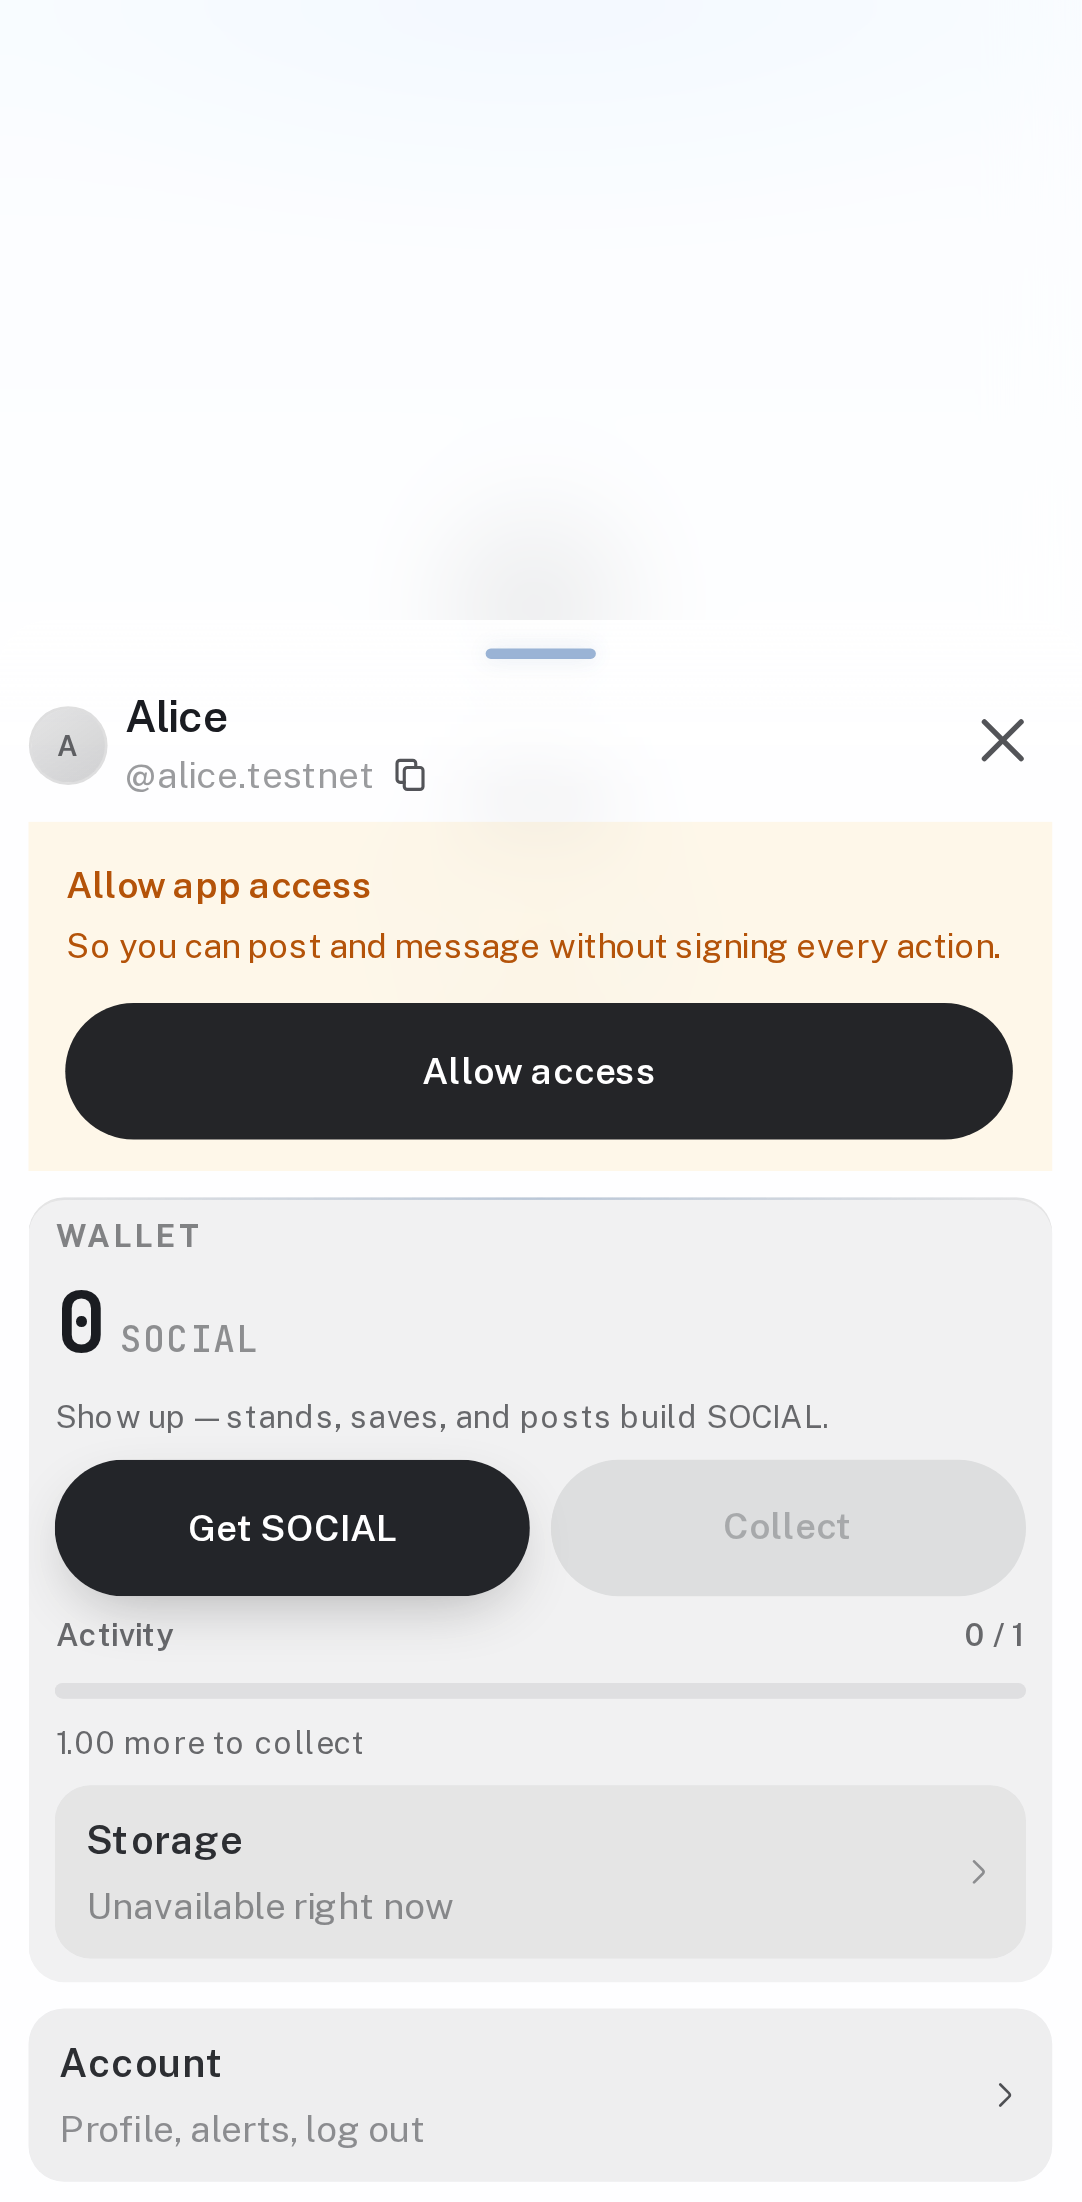
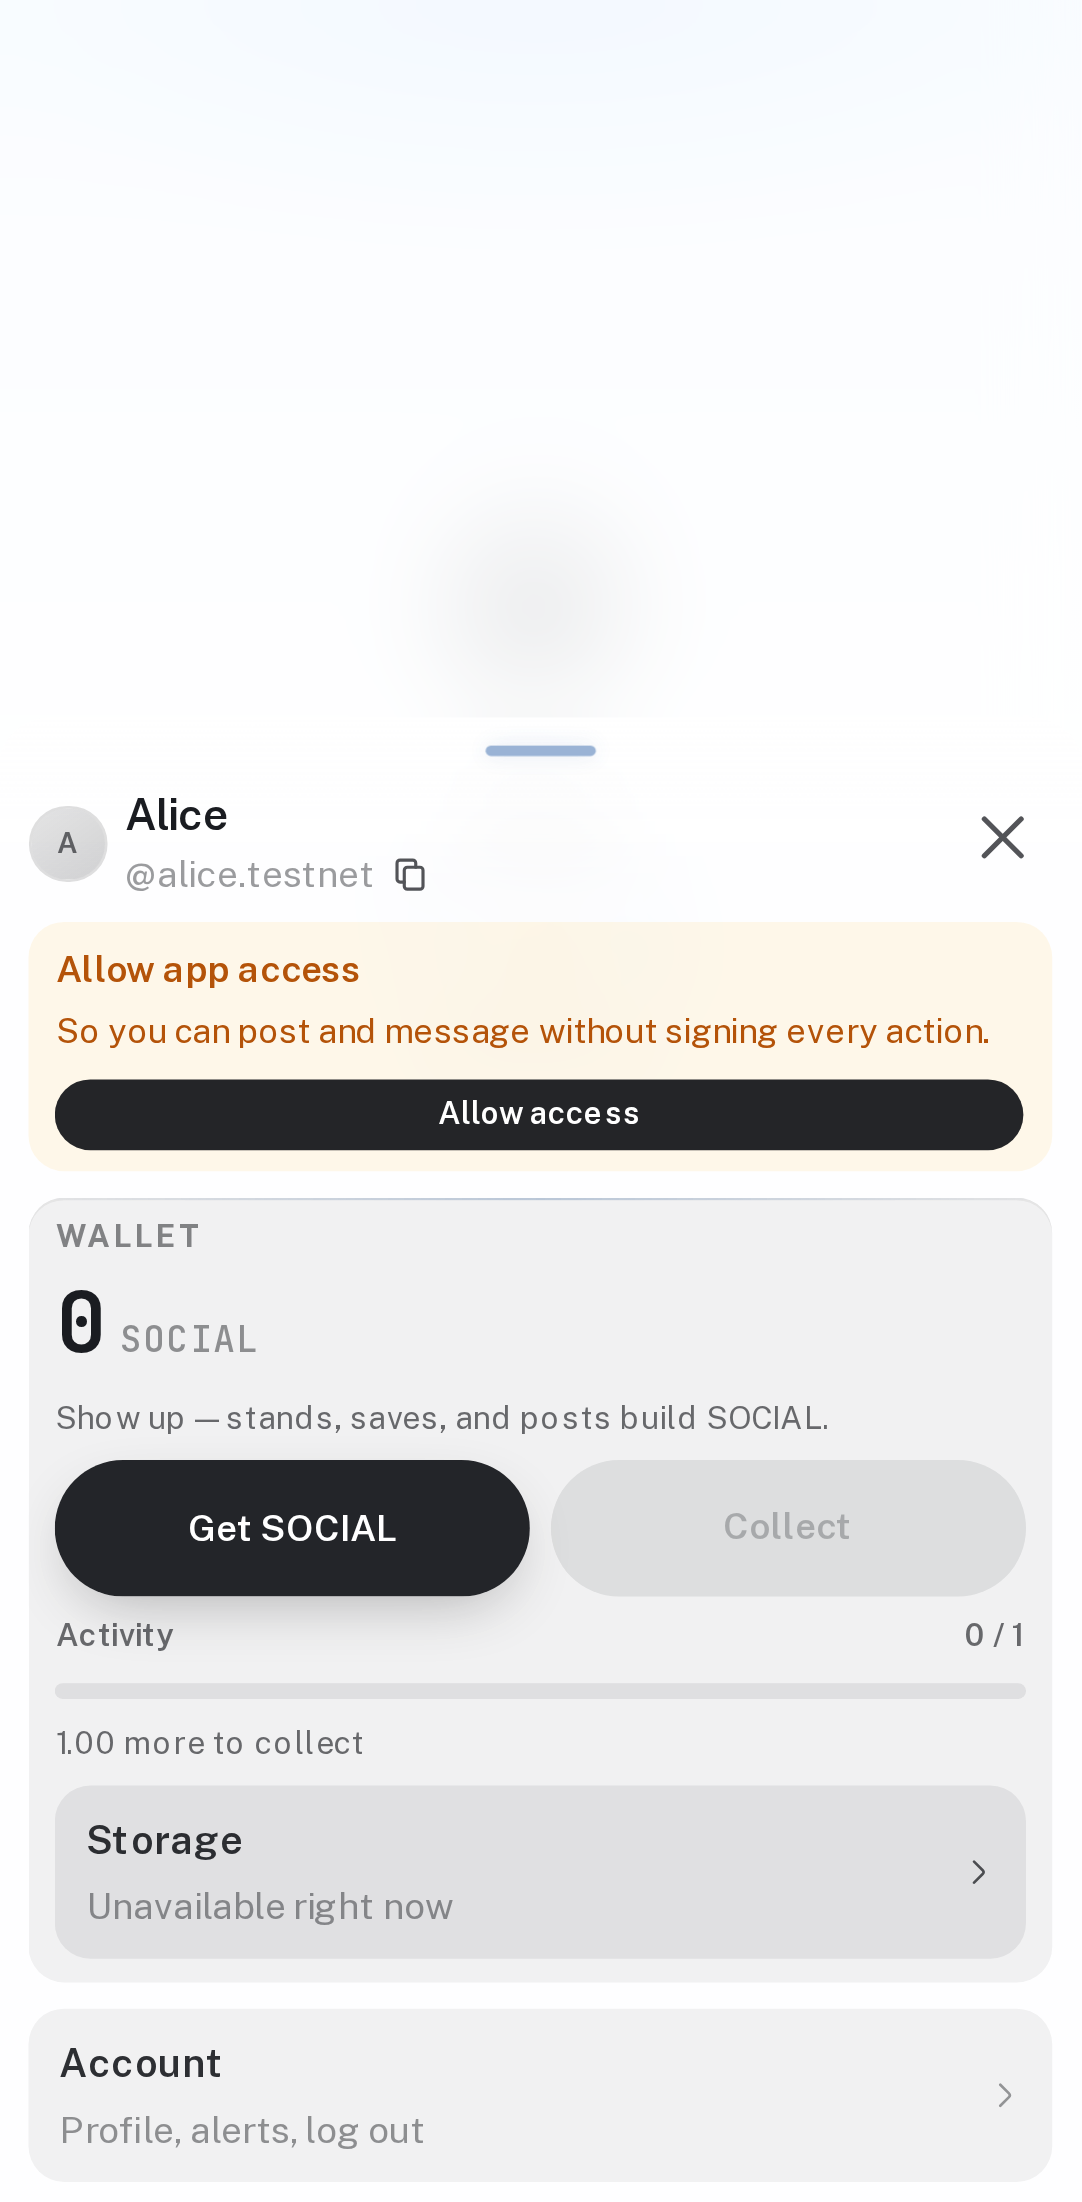
Match the access card to the wallet panel
Use the surface radius, padding, and gap tokens, and the kit's compact action size.

diff --git a/packages/onsocial-app/src/app/globals.css b/packages/onsocial-app/src/app/globals.css
@@ -19076,6 +19076,9 @@ a.os-surface-row,
   @media (max-height: 42rem) {
     .account-card {
       gap: 0.5rem;
+      --os-surface-stack-gap: 0.4rem;
+      --os-surface-pad-block: 0.45rem;
+      --os-surface-pad-inline: 0.55rem;
     }
   }
 
@@ -19083,8 +19086,8 @@ a.os-surface-row,
     position: relative;
     display: flex;
     flex-direction: column;
-    gap: 0.5rem;
-    padding: 0.55rem 0.65rem;
+    gap: var(--os-surface-stack-gap);
+    padding: var(--os-surface-pad-block) var(--os-surface-pad-inline);
     overflow: hidden;
     isolation: isolate;
     /* Mood wash: unlayered block near file end (beats .os-surface-panel). */
@@ -19113,13 +19116,6 @@ a.os-surface-row,
   .account-card-wallet-zone > * {
     position: relative;
     z-index: 1;
-  }
-
-  @media (max-height: 42rem) {
-    .account-card-wallet-zone {
-      gap: 0.4rem;
-      padding: 0.45rem 0.55rem;
-    }
   }
 
   .account-wallet-hero {

diff --git a/packages/onsocial-ui/os-surface-interactive.css b/packages/onsocial-ui/os-surface-interactive.css
@@ -106,6 +106,10 @@
     --os-chrome-glyph-size: 1.5rem;
     --os-surface-radius-row: 0.85rem;
     --os-surface-radius-tile: 0.85rem;
+    /* Inset card — wallet zone and the drawer attention notice share these. */
+    --os-surface-pad-inline: 0.65rem;
+    --os-surface-pad-block: 0.55rem;
+    --os-surface-stack-gap: 0.5rem;
     /* Guild-search / Market / Drops catalog cover scale. */
     --os-catalog-cover: 4.85rem;
     --os-catalog-cover-sm: 5.5rem;

diff --git a/packages/onsocial-app/src/components/wallet/app-access-banner.tsx b/packages/onsocial-app/src/components/wallet/app-access-banner.tsx
@@ -31,7 +31,12 @@ export function AppAccessBanner() {
       title={copy.title}
       body={copy.body}
       footer={
-        <OsSheetActions layout="row" tone="frosted-primary" borderless>
+        <OsSheetActions
+          layout="row"
+          tone="frosted-primary"
+          size="sm"
+          borderless
+        >
           <OsSheetAction
             type="button"
             variant="primary"

diff --git a/packages/onsocial-ui/os-notice-card.css b/packages/onsocial-ui/os-notice-card.css
@@ -146,6 +146,13 @@
   color: var(--protocol-amber-ink);
 }
 
+/* Drawer notice — same shape and inset as `.os-surface-panel`. */
+[data-app-access-banner].os-notice-card {
+  border-radius: var(--os-surface-radius-row);
+  gap: var(--os-surface-stack-gap);
+  padding: var(--os-surface-pad-block) var(--os-surface-pad-inline);
+}
+
 .os-notice-card-toggle {
   display: flex;
   align-items: flex-start;

diff --git a/docs/briefs/2026-11-13-wallet-session-key-fix.md b/docs/briefs/2026-11-13-wallet-session-key-fix.md
@@ -39,7 +39,7 @@ Notice cards in the repo (`OsNoticeCard`):
 - Log out, in this same account family (`account-card-parts.tsx`): `align="start"`, no `shell`, no icon, title + body, footer `OsSheetActions layout="row" tone="frosted-primary" borderless`. Pending dots on the commit button. Cancel is `disabled` while that runs. Focus, hover, and press come from `OsSheetAction` (`:focus-visible` uses `--os-focus-ring`, `:active` and `:disabled` are in `os-sheet-action.css`).
 - Profile load error (`profile-editor-load-error.tsx`): `align="center"`, `shell`, one primary in a stack, no icon. Different surface.
 
-Neither notice carries an icon. The banner's card contains no `svg`. It uses the log-out structure: start align, no shell, the same footer. Spacing is the kit card (`.os-notice-card` gap `0.7rem`, pad `0.9rem 0.9rem 0.75rem`), not a second pad. The only added rule is `.os-notice-card--attention`: fill `--protocol-amber-bg`, title and body `--protocol-amber-ink`. Those tokens swap under `[data-theme='dark']` (`protocol.css`). `--protocol-amber` stays the hue; ink is the text color because the hue fails contrast on a light surface. The resting button is `os-sheet-action os-sheet-action--primary is-ready` and is not `disabled`. While the grant runs it is `pending` and `disabled` together, which is the kit dots state. Focus, press, and disabled styling stay in `os-sheet-action.css` (`:focus-visible` uses `--os-focus-ring`). No new pressed, focus, or loading styles.
+Neither notice carries an icon. The banner's card contains no `svg`. It uses the log-out structure: start align, no shell, the same footer. Log out keeps the kit notice pad. The drawer banner uses the wallet card's surface tokens: radius `--os-surface-radius-row`, padding `--os-surface-pad-block` and `--os-surface-pad-inline`, gap `--os-surface-stack-gap`. The wallet zone reads those same tokens, including the short-height override. The only color rule is `.os-notice-card--attention`: fill `--protocol-amber-bg`, title and body `--protocol-amber-ink`. Those tokens swap under `[data-theme='dark']` (`protocol.css`). `--protocol-amber` stays the hue; ink is the text color because the hue fails contrast on a light surface. The action group is `OsSheetActions` `size="sm"` (the kit's 1.65rem compact pill, used by market Buy and guild Join). The resting button is `os-sheet-action os-sheet-action--primary is-ready` and is not `disabled`. While the grant runs it is `pending` and `disabled` together, which is the kit dots state. Focus, press, and disabled styling stay in `os-sheet-action.css` (`:focus-visible` uses `--os-focus-ring`). No new pressed, focus, or loading styles.
 
 Re-scan after the edits: community handoff still calls `grantCommunityAppSession` → `buildSessionGrant` with `apps/<id>/`, so that grant still emits AddKey and `set_key_permission`. Portal welcome-near is a separate helper and was not retargeted. Switch wallet still calls `connect({})` with no key. An already connected `connect()` still resumes through `ensureSocialSession` and does not bundle into that resume.
 
@@ -67,11 +67,13 @@ The banner sits in the drawer body, above the Wallet balance, and does not cover
 
 Opened with no extra scroll, after the enter animation, with the balance settled (`0` SOCIAL and the empty hint). Chrome, Safari, and Brave agree on each device. The banner does not overlap the balance, the close button, or the grip. The Account row sits inside the panel. The body does not scroll. The panel bottom is 1px past the layout viewport from the hosted `inset: -1px`.
 
-iPhone (layout viewport 390×664). Grip 42×4 at (174, 74), close 38×38 at (341, 90), banner 368×152 at (11, 141), balance value 15×40 at (20, 323), wallet zone 368×282 at (11, 300), Account row 368×66 at (11, 590) ending at 656. The banner bottom (292) is above the wallet zone.
+The banner and the wallet zone share x, width, radius (`13.6px`, `--os-surface-radius-row`), and padding. Allow access is the `sm` pill, 27px tall. Get SOCIAL stays 52px.
 
-Samsung (360×800). Banner 338×152 at (11, 256). Account row ends at 792. Panel ends at 801.
+iPhone (layout viewport 390×664, under 42rem so the short pad applies: `7.2px 8.8px`). Grip 42×4 at (174, 117), close 38×38 at (341, 133), banner 368×109 at (11, 183), wallet zone 368×282 at (11, 300), Allow access 350×27, Account row 368×66 at (11, 590) ending at 656.
 
-Pixel (412×839). Banner 390×133 at (11, 313). The wider line is one row, so the card is 19px shorter. Account row ends at 831. Panel ends at 840.
+Samsung (360×800, pad `8.8px 10.4px`). Banner 338×114 at (11, 293), wallet zone the same x and width at y 417. Account row ends at 792. Panel ends at 801.
+
+Pixel (412×839). Banner 390×95 at (11, 351). The wider line is one row, so the card is shorter. Account row ends at 831. Panel ends at 840.
 
 Light ink is `rgb(180, 83, 9)` (`--protocol-amber-ink` `#b45309`) on `rgba(251, 191, 36, 0.1)`. Dark is `rgb(251, 191, 36)` on `rgba(251, 191, 36, 0.12)`.
 
@@ -109,6 +111,6 @@ Route tests: a funded first visit with no stored hint bundles; an unfunded first
 
 Banner copy tests: hidden while unsettled, Allow when missing, Renew when expired, hidden when active.
 
-The drawer uses the tall hug cap so the Account row stays in the first paint. The notice uses the kit pad, ink on the title and the body, and `disabled` while the grant is pending. Screenshots are the 18 device shots plus the dark iPhone Chrome shot. The branch against `main` is 47 files, +1636 / −230.
+The drawer uses the tall hug cap so the Account row stays in the first paint. The notice uses the wallet card's radius, padding, and gap tokens, ink on the title and the body, `OsSheetActions` `size="sm"`, and `disabled` while the grant is pending. Screenshots are the 18 device shots plus the dark iPhone Chrome shot. The branch against the merge base is 49 files, +1659 / −239.
 
 `pnpm check:push` ran through the pre-push hook, not `--no-verify`. The Job 2 hook (head `44001a85`) passed with Playwright 383 passed, 5 flaky, 1 skipped. The Job 3 hook passed with 508 test files, 3544 unit tests, and Playwright 389 passed, 1 flaky, 1 skipped. The banner and audit hook (head `fc7e3e01`) passed with 509 test files, 3547 unit tests, and Playwright 387 passed, 3 flaky, 1 skipped. The flakes are the collection supply line, a home refresh, and the organisation location drawer. Retries passed.
